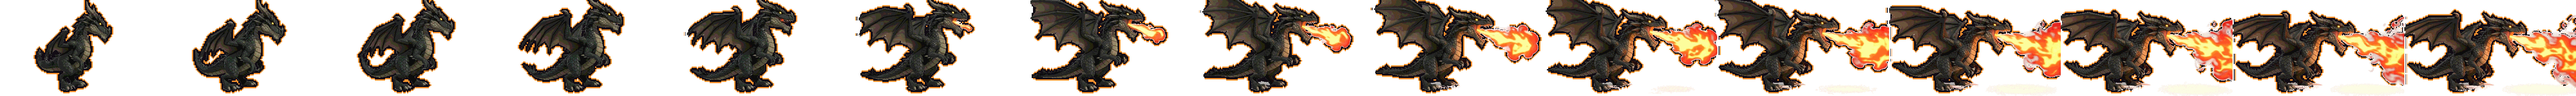
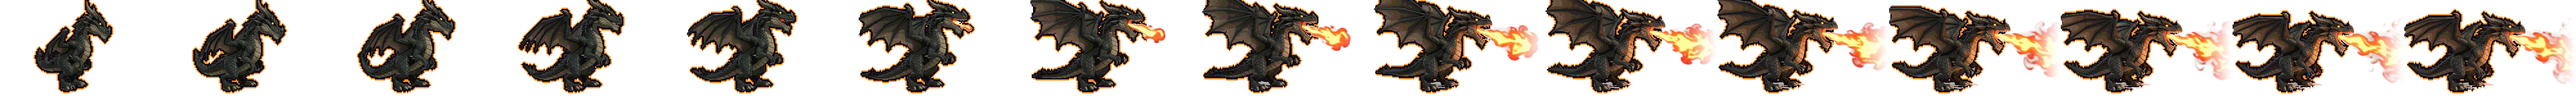
Power test: no more cut-off boots in run frames; fire and beam blend into the long stream with no hard edge; floor patch removed
Claude-Session: https://claude.ai/code/session_01Y9XNosS9qXxorLv9Jh2D4n

diff --git a/proto/moc.html b/proto/moc.html
@@ -37,13 +37,13 @@ const resize = () => { DPR = Math.min(2, devicePixelRatio || 1); W = innerWidth;
 addEventListener('resize', resize); resize();
 const img = (src) => { const i = new Image(); i.src = src; return i; };
 // players: run-sideways and turn-around sheets cut from the GIFs
-const PL = { 7: { run: img('p7_run.png?v=1795710352'), rn: 8, turn: img('p7_turn.png?v=1795710352'), tn: 29 }, 10: { run: img('p10_run.png?v=1795710352'), rn: 7, turn: img('p10_turn.png?v=1795710352'), tn: 29 }, 14: { run: img('p14_run.png?v=1795710352'), rn: 8, turn: img('p14_turn.png?v=1795710352'), tn: 16 } };
+const PL = { 7: { run: img('p7_run.png?v=1795710672'), rn: 8, turn: img('p7_turn.png?v=1795710672'), tn: 29 }, 10: { run: img('p10_run.png?v=1795710672'), rn: 7, turn: img('p10_turn.png?v=1795710672'), tn: 29 }, 14: { run: img('p14_run.png?v=1795710672'), rn: 8, turn: img('p14_turn.png?v=1795710672'), tn: 16 } };
 // the pixel entrance effects: a burst of fire the dragon steps out of, steel plates that burst open for the robot
-const FX = { smok: { sheet: img('fx_ogien.png?v=1795710352'), n: 9, dt: 0.13, appear: 3 }, robot: { sheet: img('fx_plyty.png?v=1795710352'), n: 9, dt: 0.13, appear: 6 } };
+const FX = { smok: { sheet: img('fx_ogien.png?v=1795710672'), n: 9, dt: 0.13, appear: 3 }, robot: { sheet: img('fx_plyty.png?v=1795710672'), n: 9, dt: 0.13, appear: 6 } };
 let fx = null;
 // powers: frames 400x225; where the figure stands (ax, feet at fy); when the beam/fire reaches the right edge and where; which frames loop while firing
-const PW = { robot: { sheet: img('moc_robot_o.png?v=1795710352'), n: 28, ax: 95, fy: 214, hit: 15, ey: 88, loop: [18, 27], col: ['#5af0ff', '#bff8ff', '#2a8aff'], fps: 11 },
-             smok: { sheet: img('moc_smok_o.png?v=1795710352'), n: 15, ax: 190, fy: 212, hit: 9, ey: 104, loop: [10, 14], col: ['#ff8a1a', '#ffe14a', '#ff3a10'], fps: 9 } };
+const PW = { robot: { sheet: img('moc_robot_o.png?v=1795710672'), n: 28, ax: 95, fy: 214, hit: 15, ey: 88, loop: [18, 27], col: ['#5af0ff', '#bff8ff', '#2a8aff'], fps: 11 },
+             smok: { sheet: img('moc_smok_o.png?v=1795710672'), n: 15, ax: 190, fy: 212, hit: 9, ey: 104, loop: [10, 14], col: ['#ff8a1a', '#ffe14a', '#ff3a10'], fps: 9 } };
 let who = 14, power = null, st = 'run', t0 = 0, now = 0, parts = [], shake = 0, flash = 0, ball = null, beam = 0, net = 0, msg = '', msgT = 0;
 const L = () => ({ ground: H * 0.8, px: W * 0.24, goal: W * 0.92, ph: Math.min(H * 0.34, W * 0.2), big: Math.min(H * 0.5, W * 0.36) });
 const setState = (s) => { st = s; t0 = now; document.getElementById('mid').hidden = s !== 'choose'; document.getElementById('again').hidden = s !== 'done'; };
@@ -93,13 +93,13 @@ function aura(l, k, cols) { const cx = l.px, cy = l.ground - l.ph * 0.5, r = l.p
   if (power === 'robot' && Math.random() < 0.15 + k * 0.4) { g.strokeStyle = '#ffffff'; g.lineWidth = 2; g.beginPath(); let x = cx + (Math.random() - 0.5) * r, y = cy - r; g.moveTo(x, y); for (let s = 0; s < 6; s++) { x += (Math.random() - 0.5) * r * 0.5; y += r * 0.33; g.lineTo(x, y); } g.stroke(); }
 }
 // the beam or the fire carried on past the edge of the animation, out to the goal
-function stream(from, l, k, cols) { if (k <= 0) return; const x0 = from.ex - from.k * (power === 'robot' ? 30 : 70), y0 = from.ey, x1 = x0 + (l.goal + W * 0.04 - x0) * Math.min(1, k), th = from.k * (power === 'robot' ? 34 : 52);
+function stream(from, l, k, cols) { if (k <= 0) return; const x0 = from.ex - from.k * (power === 'robot' ? 120 : 150), y0 = from.ey, x1 = x0 + (l.goal + W * 0.04 - x0) * Math.min(1, k), th = from.k * (power === 'robot' ? 34 : 52);
   g.globalCompositeOperation = 'lighter';
   if (power === 'robot') { const h = th * (1.1 + Math.sin(now * 30) * 0.12), gr = g.createLinearGradient(0, y0 - h, 0, y0 + h); gr.addColorStop(0, cols[2] + '00'); gr.addColorStop(0.3, cols[2] + '88'); gr.addColorStop(0.45, cols[0] + 'dd'); gr.addColorStop(0.5, '#e8ffffff'); gr.addColorStop(0.55, cols[0] + 'dd'); gr.addColorStop(0.7, cols[2] + '88'); gr.addColorStop(1, cols[2] + '00');
     g.fillStyle = gr; g.beginPath(); g.moveTo(x0, y0 - h * 0.6); for (let x = x0; x <= x1; x += 16) g.lineTo(x, y0 - h * (0.75 + Math.sin(x * 0.05 - now * 30) * 0.18)); g.lineTo(x1 + h * 0.4, y0); for (let x = x1; x >= x0; x -= 16) g.lineTo(x, y0 + h * (0.75 + Math.sin(x * 0.05 + now * 27) * 0.18)); g.closePath(); g.fill();
     for (let i = 0; i < 8; i++) { const u = (now * 3 + i / 8) % 1; g.strokeStyle = cols[1] + 'aa'; g.lineWidth = 2; g.beginPath(); g.ellipse(x0 + (x1 - x0) * u, y0, h * 0.25, h * 0.9, 0, 0, 7); g.stroke(); }
     g.strokeStyle = '#ffffffcc'; g.lineWidth = 1.5; for (let j = 0; j < 2; j++) { g.beginPath(); g.moveTo(x0, y0); for (let x = x0; x < x1; x += 22) g.lineTo(x, y0 + (Math.random() - 0.5) * th * 1.4); g.stroke(); } }
-  else { for (let i = 0; i < 26; i++) { const u = ((now * 2.2 + i / 26) % 1), x = x0 + (x1 - x0) * u, r = th * (0.35 + u * 0.55) * (0.8 + Math.sin(i * 7 + now * 9) * 0.2), y = y0 + Math.sin(i * 3.1 + now * 6) * th * 0.25 * u;
+  else { for (let i = 0; i < 40; i++) { const u = ((now * 2.2 + i / 40) % 1), x = x0 + (x1 - x0) * u, r = th * (0.55 + u * 0.45) * (0.8 + Math.sin(i * 7 + now * 9) * 0.2), y = y0 + Math.sin(i * 3.1 + now * 6) * th * 0.25 * u;
       const gr = g.createRadialGradient(x, y, 0, x, y, r); gr.addColorStop(0, '#fff6c8'); gr.addColorStop(0.35, cols[1]); gr.addColorStop(0.7, cols[0] + 'cc'); gr.addColorStop(1, cols[2] + '00'); g.fillStyle = gr; g.beginPath(); g.arc(x, y, r, 0, 7); g.fill(); } }
   g.globalCompositeOperation = 'source-over'; return { x1, y0 }; }
 
